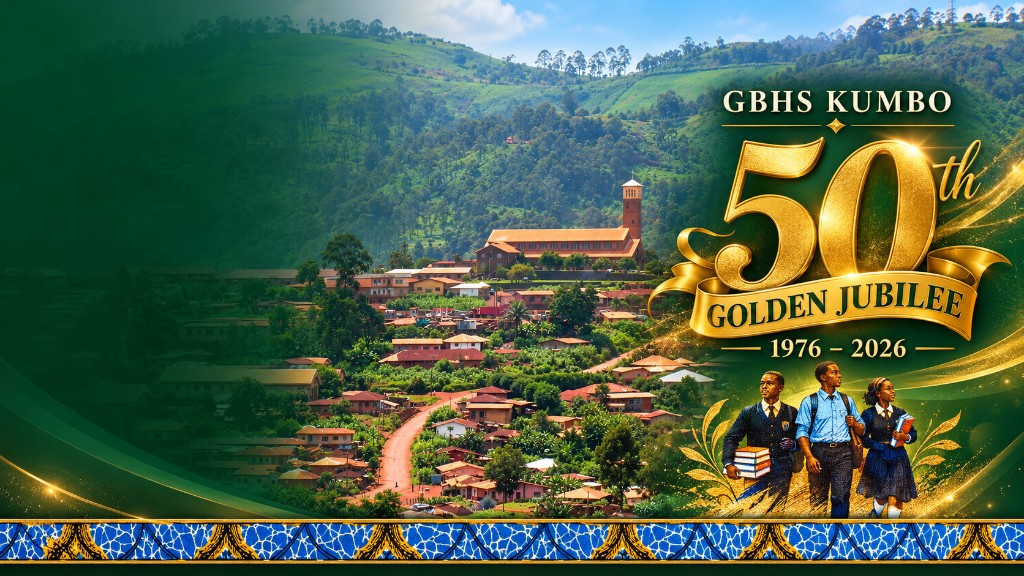
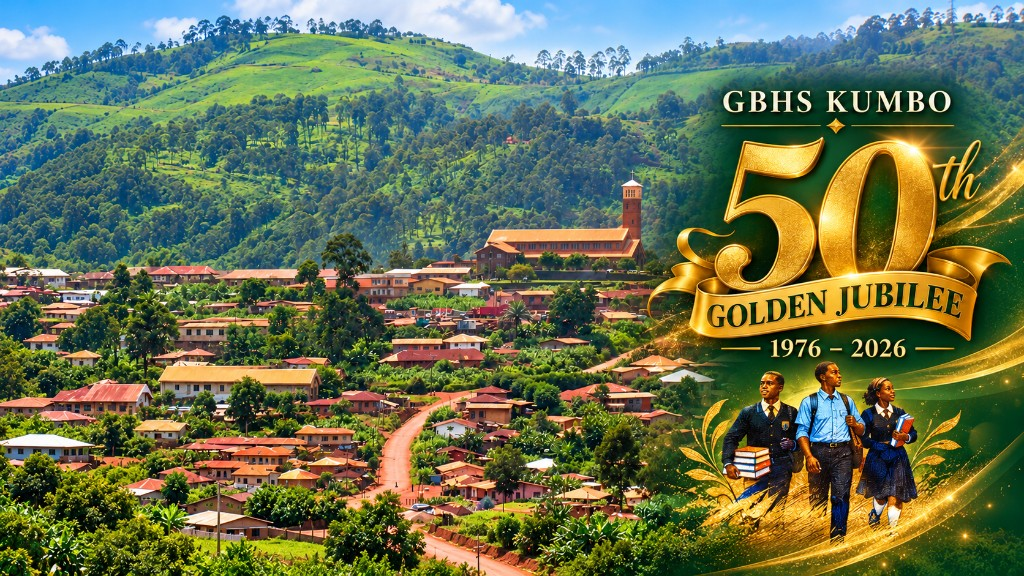
Use the new GBHS town image and keep cache files writable after deploy.
A root-owned queue worker was creating cache files the site could not update, which turned every page into a 500.

diff --git a/laravel-app/resources/views/gbhs/public/layout.blade.php b/laravel-app/resources/views/gbhs/public/layout.blade.php
@@ -96,7 +96,6 @@
         }
         body.home header, body.home footer { flex: 0 0 auto; }
         body.home main { display: none; }
-        body.home .foot-mosaic { display: none; }
         body.home .hero-land {
             flex: 1 1 auto;
             min-height: 0;
